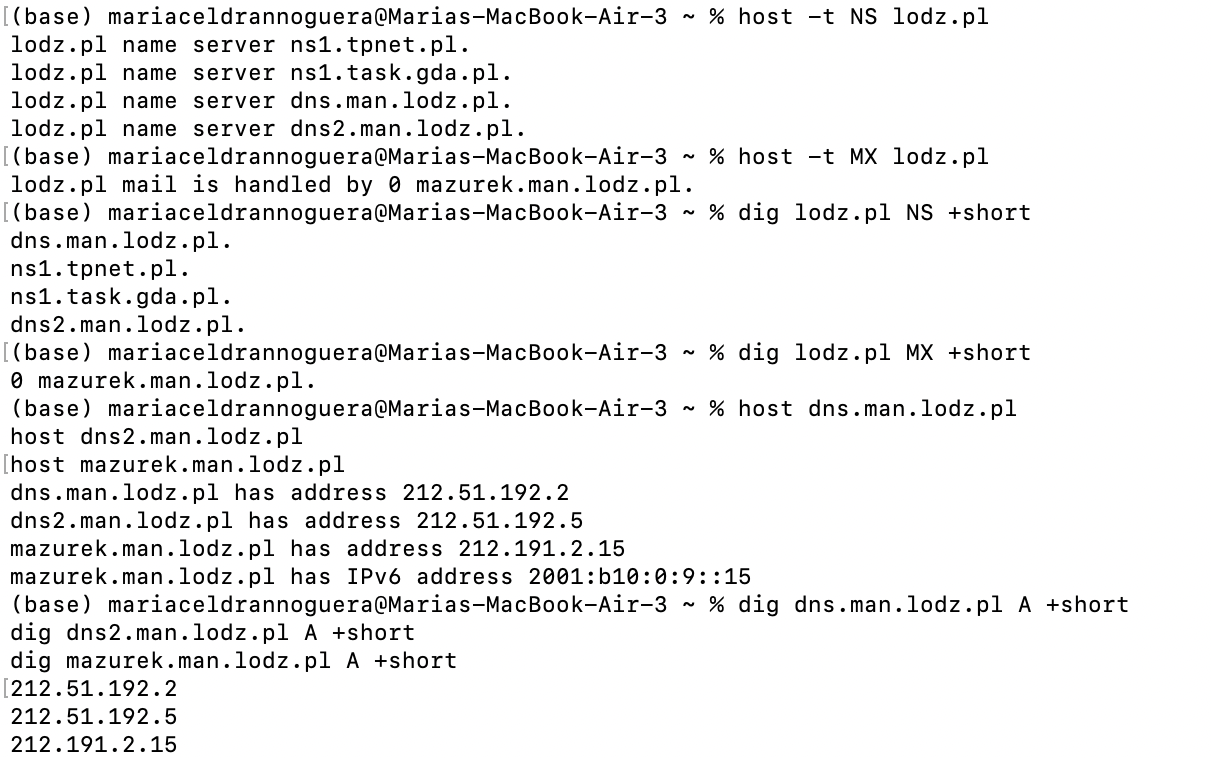
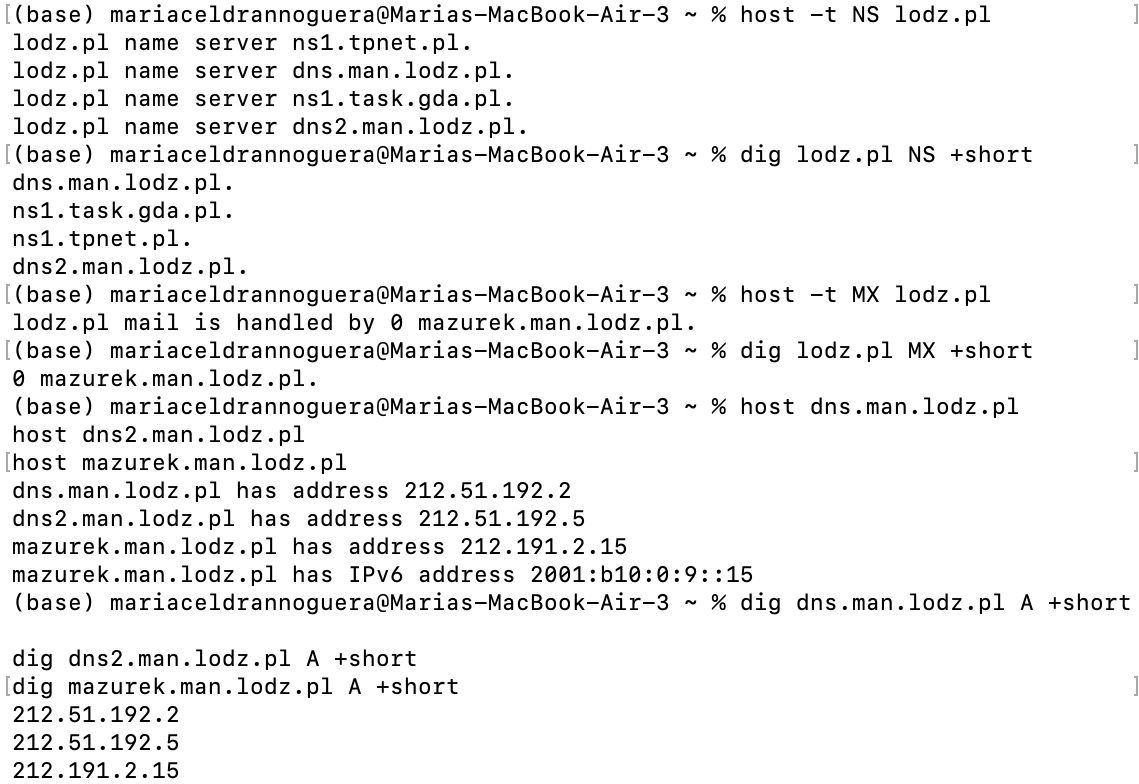
Parte del DNS revisada

diff --git a/Task1/index.html b/Task1/index.html
@@ -245,19 +245,32 @@ This is the body of the message.</pre>
 <h4>2.1.2. Using dig, host, and nslookup, find the following information:</h4>
 <p>Although the original lab instructions suggest using <code>dig</code>, <code>host</code>, and <code>nslookup</code>, these tests were mostly performed on a Windows environment using <code>nslookup</code>. Additionally, the utilities <code>dig</code> and <code>host</code> were used on a macOS environment to query DNS records.</p>
 <h5>2.1.2.1. Domain names and corresponding IP addresses of computers in the lodz.pl domain.</h5>
-<p>Using <code>nslookup</code>, we queried the NS and MX records of <code>lodz.pl</code> to identify its infrastructure servers and their IP addresses. The NS records show which servers are authoritative for the zone, and the MX records show which servers receive its e-mail. Each of these names was resolved to an IP address through an A record.</p>
+<p>Using <code>nslookup</code>, we queried the NS and MX records of <code>lodz.pl</code> to identify its infrastructure servers and their IP addresses. The NS records show which servers are authoritative for the zone, and the MX records show which servers receive its e-mail. Each of these names was resolved to an IP address through an A and AAAA record.</p>
 <figure><img src="images/2_1_2_1_f.png" alt="Initial DNS records query for lodz.pl" width="800"></figure>
 <figure><img src="images/2_1_2_1_image.png" alt="MX records for lodz.pl and IP's" width="800"><figcaption>NS and MX records of lodz.pl.</figcaption></figure>
 <p>Furthermore, we also queried the domain using <code>dig</code> and <code>host</code> on macOS:</p>
 <figure><img src="images/2_1_2_1_mac.png" alt="dig and host queries for lodz.pl on macOS" width="800"><figcaption>Querying lodz.pl records using dig and host on macOS.</figcaption></figure>
+<p>When inspecting the Name Server responses, we discarded <code>ns1.tpnet.pl</code> and <code>ns1.task.gda.pl</code> as internal hostnames because they do not end in <code>.lodz.pl</code>. Additionally, <code>mazurek.man.lodz.pl</code> returns two IP addresses because it runs a dual-stack configuration: an <b>A record</b> resolves to its IPv4 address (<code>212.191.2.15</code>) and an <b>AAAA record</b> resolves to its IPv6 address (<code>2001:b10:0:9::15</code>).</p>
+
 
 <h5>2.1.2.2. A computer somewhere in Europe, outside Łódź, and find all available information about the DNS settings of this computer.</h5>
-<p>We used <code>nslookup</code> to retrieve the IP address, the mail server and the name server records for the University of Oxford, in the United Kingdom. This gives a complete picture of how the domain is configured: where its web server is (A record), where its mail is delivered (MX) and which servers are authoritative (NS).</p>
-<figure><img src="images/2_1_2_2_image.png" alt="DNS settings for Oxford University" width="800"><figcaption>DNS records of the University of Oxford.</figcaption></figure>
+<p>We want to collect all the DNS information that is publicly available for the University of Oxford (<code>ox.ac.uk</code>). We are looking for the record types stored in DNS: the IPv4 and IPv6 addresses (A, AAAA), aliases (CNAME), the mail servers (MX), the authoritative name servers (NS), the text records (TXT), the zone parameters (SOA), the certificate authorization (CAA) and the reverse name of the IP address (PTR).</p>
+<p>First, <code>nslookup</code> was used to retrieve the IP address, the mail server and the name server records.</p>
+<figure><img src="images/2_1_2_2_image.png" alt="DNS settings for Oxford University" width="800"><figcaption>A, MX and NS records of ox.ac.uk.</figcaption></figure>
+<p>Then the remaining record types were queried with the <code>host</code> command.</p>
+<figure><img src="images/2_1_2_2_host_image.png" alt="host command results for ox.ac.uk" width="800"><figcaption>A, AAAA, CNAME, MX, NS, TXT, SOA, CAA and PTR records of ox.ac.uk</figcaption></figure>
+
+
 
 <h5>2.1.2.3. A computer somewhere outside Europe (e.g., an exotic country) and find all available information about the DNS settings of this computer.</h5>
-<p>We queried the A, MX and NS records for <code>mit.edu</code> to analyze the DNS configuration of a domain located outside Europe, in the United States. Only the TLD is different (<code>.edu</code>, a restricted TLD), so the resolution starts from the root and is referred to a different TLD server.</p>
+<p>We collect the DNS information for the Massachusetts Institute of Technology (<code>mit.edu</code>). We look for the same record types as for Oxford.</p>
+
+<p>First, using <code>nslookup</code>, we queried the A, MX and NS records. Only the TLD is different (<code>.edu</code>, a restricted TLD), so the resolution starts from the root and is referred to a different TLD server.</p>
 <figure><img src="images/2_1_2_3_image.png" alt="DNS settings for MIT" width="800"><figcaption>A, MX and NS records of mit.edu.</figcaption></figure>
+<p>Then the remaining record types were queried with the <code>host</code> command.</p>
+<figure><img src="images/2_1_2_3_host_image.png" alt="host command results for mit.edu" width="800"><figcaption>Records of mit.edu obtained with <code>host</code>.</figcaption></figure>
+<p>Compared with Oxford, MIT depends even more on external companies: its website, its name servers and its mail are all provided by third parties (Akamai and Microsoft). Oxford keeps its own six name servers, and only its mail and website are external. Also, MIT has IPv6 addresses and Oxford has none.</p>
+
 
 <h5>2.1.2.4. Verify DNS assignment for localhost.</h5>
 <p>Using the <code>ping</code> command, we verified that the operating system correctly resolves <code>localhost</code> to the IPv6 loopback address <code>::1</code> ( or <code>127.0.0.1</code> in IPv4).</p>
@@ -268,9 +281,11 @@ This is the body of the message.</pre>
 <figure><img src="images/2_1_2_5_image.png" alt="Flushing DNS in Windows" width="800"><figcaption>Result of <code>ipconfig /flushdns</code>.</figcaption></figure>
 
 <h5>2.1.2.6. Change the hosts file such that when you enter ifeXX.com, the website msn.com will display (where XX is the number of your IFE group).</h5>
-<p>The Windows hosts file was modified to map the custom name <code>ifeKL_1_8.com</code> to the IP address of msn.com. Because the hosts file is checked before any DNS server, the computer resolved the custom name locally and connected to the Microsoft server. Microsoft’s server returned a service error because of a Host header mismatch. The error therefore confirms that the redirection worked, since the request did reach the Microsoft servers, and proves that the local override was applied.</p>
-<figure><img src="images/2_1_2_6_image1.png" alt="Output of ping msn.com showing the target IP address." width="800"><figcaption>Modified hosts file and the response from the Microsoft servers.</figcaption></figure>
+<p>We first check for the IP address of <code>msn.com</code> using host.</p>
+<figure><img src="images/2_1_2_6_host.png" alt="Output of host msn.com showing the IP address." width="800"><figcaption>IP addres of msn.com.</figcaption></figure>
+<p>The <code>hosts</code> file of Windows is consulted before any DNS server. For this reason, we modified it to map the custom name <code>ife36.com</code> to the IP address of msn.com. The new mapping is added at the end of the file.</p>
 <figure><img src="images/2_1_2_6_image2.png" alt="Modified Windows hosts file mapping ife37.com to the target IP address." width="800"><figcaption>Modified hosts file and the response from the Microsoft servers.</figcaption></figure>
+<p>Because the hosts file is checked before any DNS server, the computer resolved the custom name locally and connected to the Microsoft server. Microsoft’s server returned a service error because of a Host header mismatch. The error therefore confirms that the redirection worked, since the request did reach the Microsoft servers, and proves that the local override was applied.</p>
 <figure><img src="images/2_1_2_6_image3.png" alt="Modified hosts file redirecting to Microsoft servers" width="800"><figcaption>Modified hosts file and the response from the Microsoft servers.</figcaption></figure>
 
 <h3>2.2. Mail system</h3>
